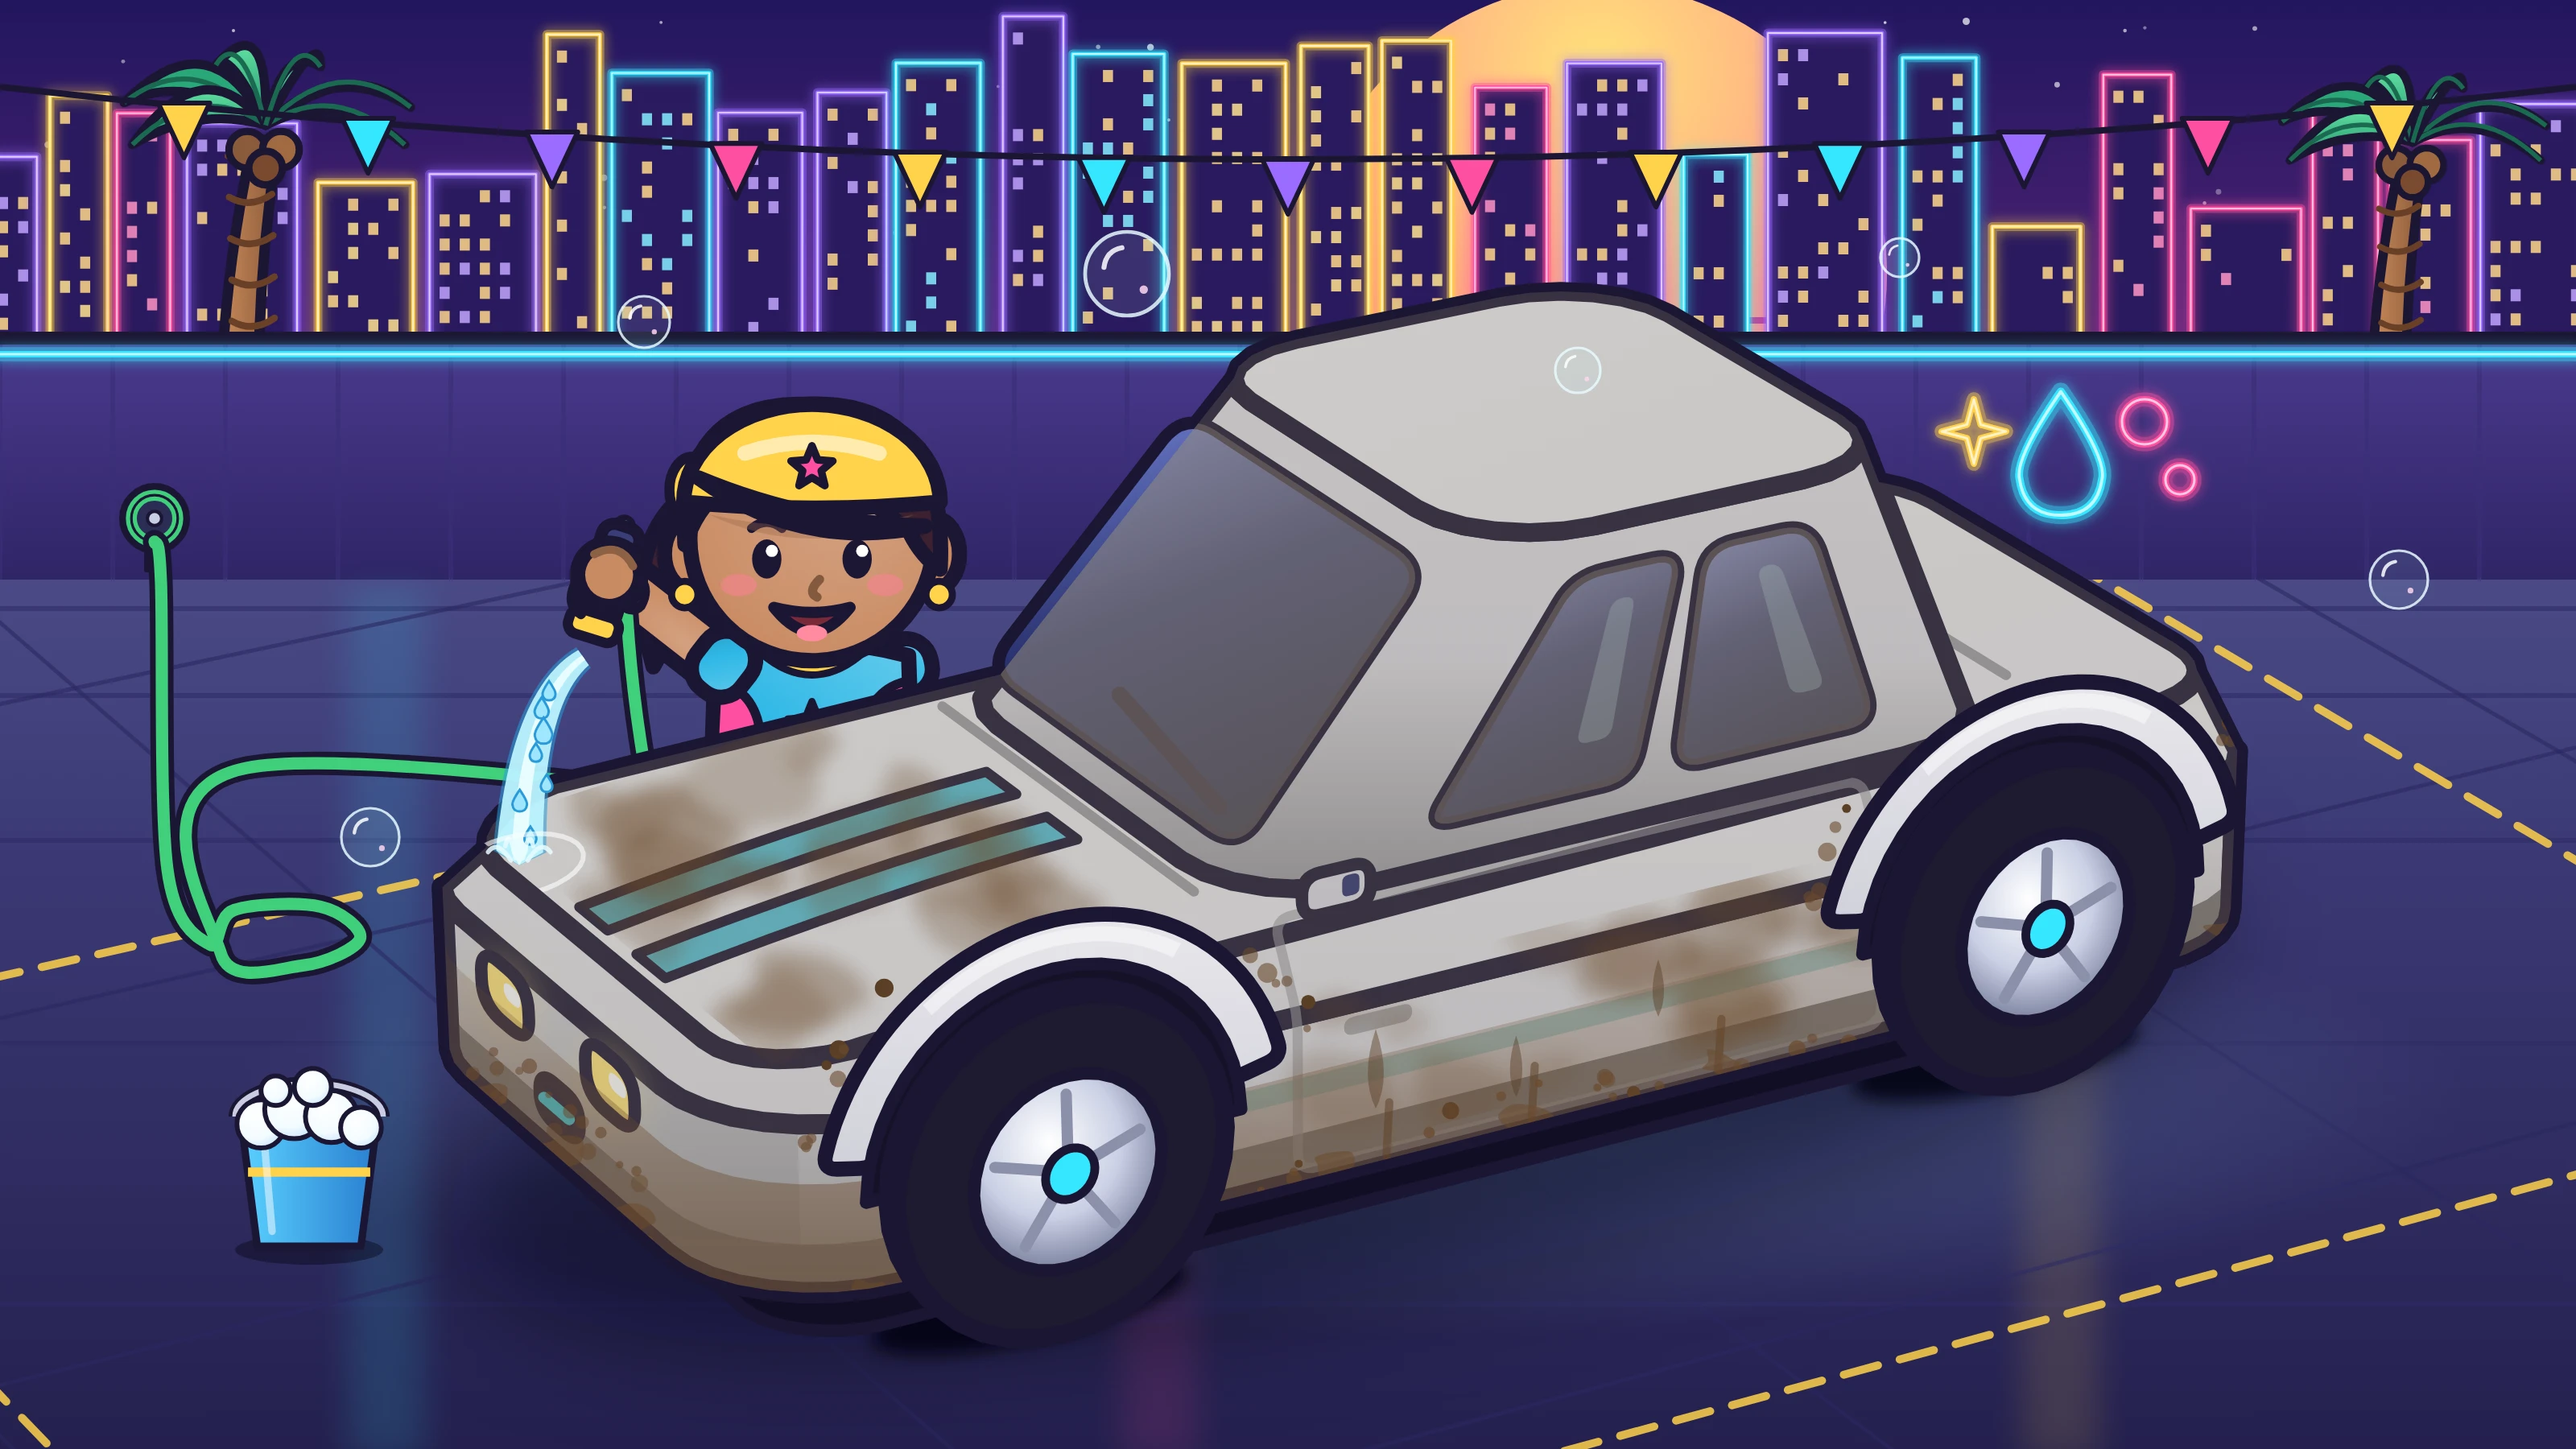
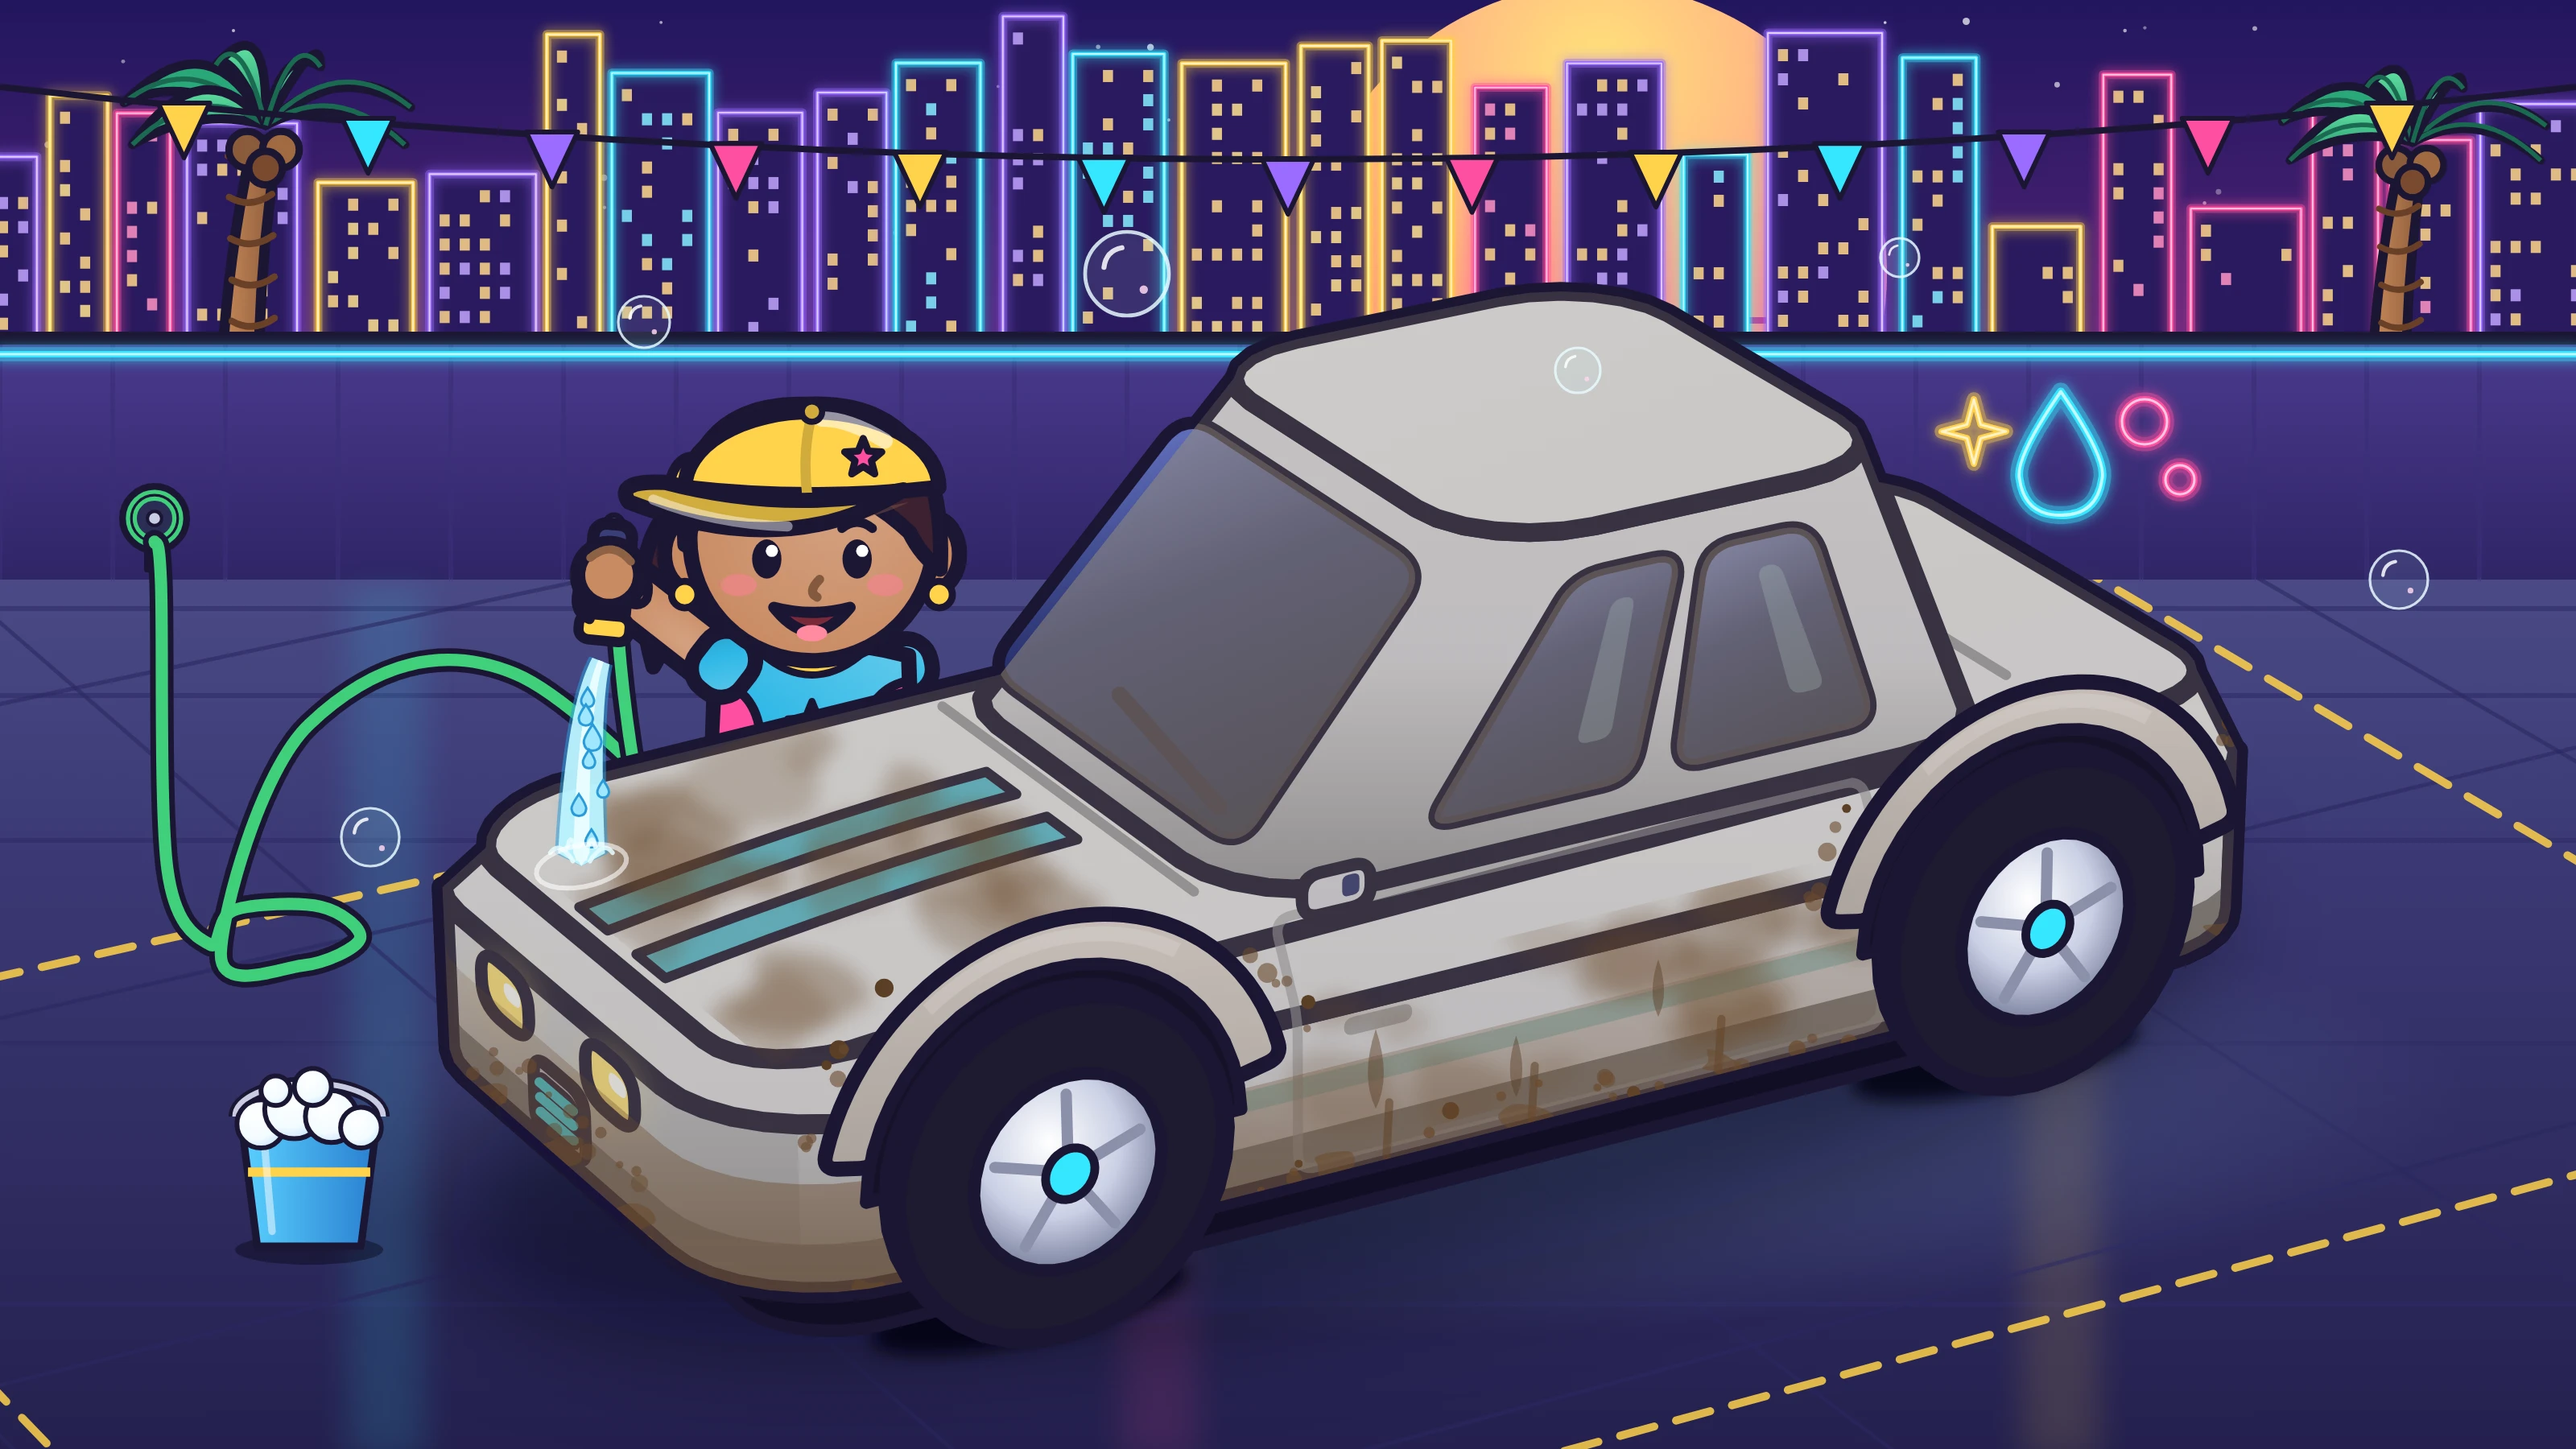
WIP: Nebula rider pose A (no legs, saddle) / B option; GTA wash round 6 fixes in progress
Claude-Session: https://claude.ai/code/session_011bftBeXudnSzAMBxDFXhpR

diff --git a/game.config.js b/game.config.js
@@ -207,14 +207,14 @@ window.GAME = {
       // CLOSE-UP car wash: zoom on the hood and scrub the mud off with the sponge
       { id: "wash", type: "closeup", label: "Laver", icon: "wash", color: "#3fd0ff", stat: "wash",
         closeup: {
-          bg: "wash_silver", spotSprites: ["mud_a", "mud_b", "mud_c"], brush: "sponge", brushTip: { x: 0.363, y: 0.794 },
+          bg: "wash_silver", spotSprites: ["mud_a", "mud_b", "mud_c"], brush: "sponge", brushTip: { x: 0.363, y: 0.794 }, brushRest: { x: 0.66, y: 0.9 },
           spots: { base: 4, growEvery: 2, max: 9, rubs: 3, size: 150, minGap: 0.12,
                    // the hood top, then the door panel, as perspective QUADS (washAreas() quads in tools/art/neon.cjs)
-                   area: [{ quad: [[0.605, 0.679], [0.384, 0.739], [0.249, 0.645], [0.463, 0.589]], margin: 0.05 },
+                   area: [{ quad: [[0.567, 0.654], [0.347, 0.713], [0.249, 0.645], [0.463, 0.589]], margin: 0.05 },
                          { quad: [[0.76, 0.757], [0.714, 0.767], [0.714, 0.713], [0.761, 0.704]], margin: 0.05, max: 1 }] },   // front of the door: room for one spot
           // phone held sideways: the whole car in 3/4 view (same areas order: hood, side — washAreas() in neon.cjs)
           wide: { bg: "wash_silver_wide", bgDone: "wash_silver_wide_done", brushRest: { x: 0.82, y: 0.84 },
-                  area: [{ quad: [[0.451, 0.631], [0.301, 0.721], [0.218, 0.599], [0.363, 0.515]], margin: 0.05 },
+                  area: [{ quad: [[0.426, 0.598], [0.278, 0.687], [0.218, 0.599], [0.363, 0.515]], margin: 0.05 },
                          { quad: [[0.723, 0.696], [0.511, 0.792], [0.511, 0.68], [0.725, 0.588]], margin: 0.05 }],
                   keepVisible: [{ x: 0.256, y: 0.242, w: 0.119, h: 0.218 }, { x: 0.219, y: 0.365, w: 0.036, h: 0.063 }, { x: 0.176, y: 0.573, w: 0.083, h: 0.293 }] },
           // the girl's face + the car's nose must stay on screen and clear of the HUD (probes/cuwide.cjs)
